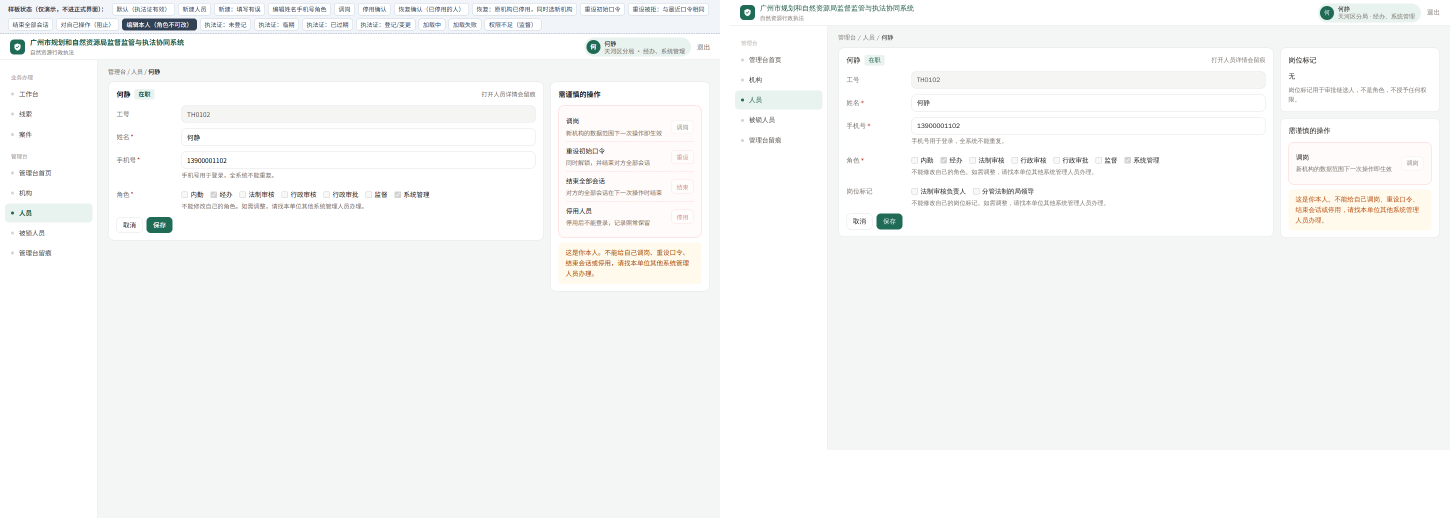
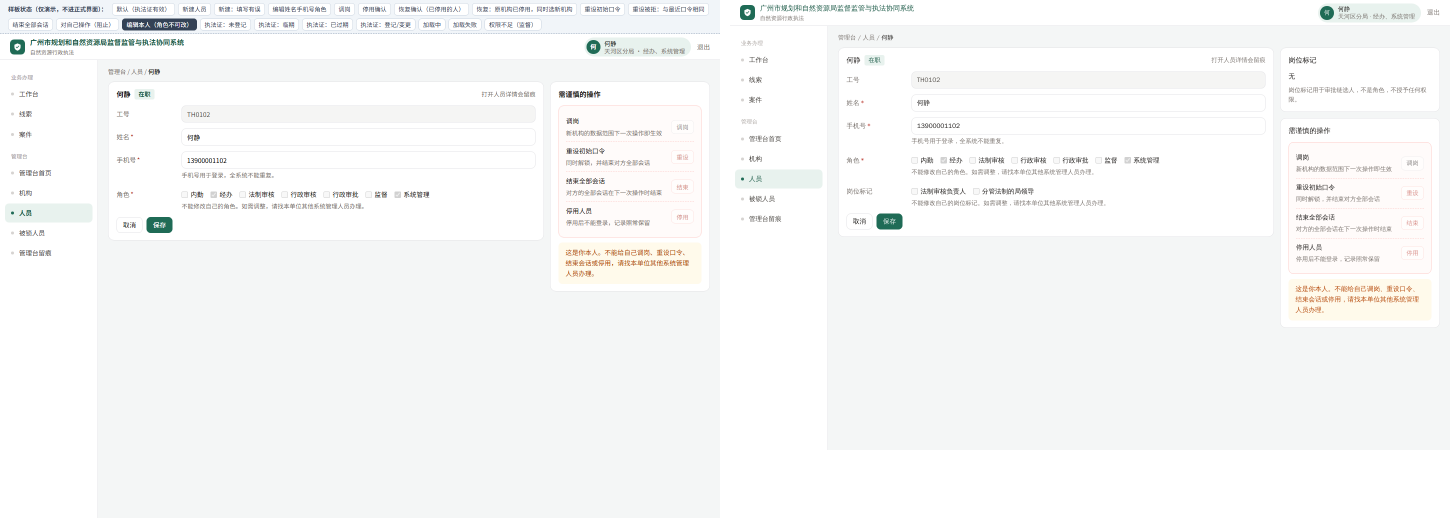
docs:2026-10-19-06-09||按终版代码重截 129/130/133 十三张卡片态截图与对照图，更正三票 README 差异登记与重截归属（#134，PR #156 复核）
重截以 #134 收口为准：危险操作区补入「重设初始口令」成四行（#132 终版），
会话操作码按名册与参照种子允许行并集（含 personnel.cert.update），
执法证一段补出登记/变更按钮，均与原型 v0.4 一致；文件名与逐目录计数不变，
结构测试 screenshot-full-set 仍绿。133 临期天数按重截当日登记为允许差异。

diff --git a/docs/screens/130/README.md b/docs/screens/130/README.md
@@ -2,13 +2,14 @@
 
 - 规格：Chrome headless（zenika/alpine-chrome 124），视口宽 1440，整页截图，2026-10-18（UTC+8）。
 - 本目录 `<状态>.png` 是实现截图；`compare/<状态>.png` 是对照图，左边为原型 v0.4（`frontend/prototype/admin-console/screens/`），右边为实现，缩到一半大小。
-- 做法：用模拟接口按状态返回会话、人员卡片与机构树，驱动构建后的前端产物截图；停用、结束全部会话、恢复三个弹窗由脚本点危险操作区对应按钮得到；恢复弹窗的机构清单由模拟接口按数据范围返回（五山已停用不列）。人员与机构沿用原型 P5、P6 的数据（他人卡陈晓宁 TH0315、已停用冯晨 TH0290、本人卡何静 TH0102）；操作码由名册和参照种子允许行推出（何静：经办 + 系统管理），含 `personnel.profile.deactivate`、`personnel.profile.restore`、`personnel.sessions.end`。
+- 做法：用模拟接口按状态返回会话、人员卡片与机构树，驱动构建后的前端产物截图；停用、结束全部会话、恢复三个弹窗由脚本点危险操作区对应按钮得到；恢复弹窗的机构清单由模拟接口按数据范围返回（五山已停用不列）。人员与机构沿用原型 P5、P6 的数据（他人卡陈晓宁 TH0315、已停用冯晨 TH0290、本人卡何静 TH0102）；操作码由名册和参照种子允许行推出（何静：经办 + 系统管理），含 `personnel.profile.deactivate`、`personnel.profile.restore`、`personnel.sessions.end`、`personnel.cert.update`、`personnel.password.reset`。
 - 本票出 6 张 v0.4 状态键：P6-view（危险操作区变化，重截 #128 旧图）、P6-deactivate、P6-restore、P6-restoreNewOrg、P6-endsessions、P6-self。重设初始口令各状态由 #132 出，执法证各状态由 #133 出。
+- 2026-10-19（UTC+8）按 PR #156 复核阻塞项以终版代码重截 6 张与对照图，重截以 #134 收口为准：危险操作区补入「重设初始口令」一行成四行（#132 终版）；会话操作码补齐 `personnel.cert.update`，执法证一段补出「变更执法证」/「登记执法证」按钮，与原型 v0.4 一致。其余画面不变。
 - 逐张差异说明：
-  - P6-view：原型顶部灰色「样板状态」条不属于正式界面；原型危险操作区四行含「重设初始口令」（#132 补入），实现当前三行（调岗、结束全部会话、停用人员），行序与提示句逐字一致；实现的角色一段之下多「岗位标记」一段（#105 A1 写明的例外，不在 v0.4）。
+  - P6-view：原型顶部灰色「样板状态」条不属于正式界面；危险操作区四行（调岗、重设初始口令、结束全部会话、停用人员）与原型逐字一致，行序与提示句一致（重设一行由 #132 补入，2026-10-19 重截后入图）；实现的角色一段之下多「岗位标记」一段（#105 A1 写明的例外，不在 v0.4）。
   - P6-deactivate：弹窗标题「停用「陈晓宁」？」、三条后果、取消与确认停用（危险色）逐字一致；原型弹窗为样板叠层，实现为模态弹窗（焦点管理照 #127 先例）。
   - P6-endsessions：弹窗标题「结束「陈晓宁」的全部会话？」、适用情形一句、两条后果、取消与确认结束逐字一致。结束成功后实现给一条 ok 横幅（文案取弹窗后果句「对方的全部会话和全部「记住我」，会在下一次操作时结束。」）；v0.4 无该成功态，截图不含，按单测验收。
   - P6-restore：kv「所在机构 龙洞自然资源所（在用）」、新的初始口令输入与提示句（含「不能与对方最近 5 次使用过的口令相同」）、取消与确认恢复逐字一致；已停用卡片危险操作区只有「恢复人员」一行，提示句「恢复后需用新的初始口令登录」一致。
   - P6-restoreNewOrg：kv「原任职机构 五山自然资源所（已停用）」、琥珀色说明条、新任职机构下拉（占位「请选择在用机构」，选项只含数据范围内在用机构）、提示句与「确认后，恢复和调到新任职机构一并完成。」逐字一致；实现未选机构时「确认恢复」置灰（原型样板按钮常亮），清单读取中同样置灰。
-  - P6-self：调岗、结束、停用三个按钮置灰，本人说明横幅逐字一致；「编辑姓名、手机号、角色」可点；在职本人卡片没有恢复一行（G23）。
+  - P6-self：调岗、重设、结束、停用四个按钮置灰，本人说明横幅逐字一致；「编辑姓名、手机号、角色」可点；在职本人卡片没有恢复一行（G23）。
   - 各弹窗失败态（根机构守卫一句、409 定稿句、口令策略未满足项）不在 v0.4 状态键内，按单测验收（可见文本不露操作码与原始结果码）。

diff --git a/docs/screens/129/README.md b/docs/screens/129/README.md
@@ -4,9 +4,10 @@
 - 本目录 `<状态>.png` 是实现截图；`compare/<状态>.png` 是对照图，左边为原型 v0.4（`frontend/prototype/admin-console/screens/`），右边为实现，缩到一半大小。
 - 做法：用模拟接口按状态返回会话、人员卡片与调岗目的地清单，驱动构建后的前端产物截图；编辑态与本人编辑态由脚本点「编辑姓名、手机号、角色」得到，调岗态点「调岗」得到。人员与机构沿用原型 P5、P6 的数据（他人卡陈晓宁 TH0315、本人卡何静 TH0102）；操作码由名册和参照种子允许行推出（何静：经办 + 系统管理），含 `personnel.profile.update`，不含未入名册的码。
 - 本票出 3 张 v0.4 状态键：P6-edit、P6-transfer、P6-selfEdit。停用、恢复、重设口令、结束会话、执法证各状态由 #130、#132、#133 出。
+- 2026-10-19（UTC+8）按 PR #156 复核阻塞项以终版代码重截 3 张与对照图，重截以 #134 收口为准：危险操作区补入「重设初始口令」一行成四行（#132 终版）；会话操作码改按名册与参照种子允许行的并集（何静：经办 + 系统管理，含 `personnel.cert.update`），左导补出「业务办理」一区、执法证一段补出「变更执法证」按钮，均与原型 v0.4 一致。其余画面不变。
 - `extra/P6-editRootGuard.png` 不是 v0.4 状态键：对根机构上最后一名系统管理人员摘角色，被根机构守卫（ADR 0014）拒绝后的编辑表单；顶部横幅是服务端给的可读原因，界面不露操作码与原始原因码，只作参考。
 - 逐张差异说明：
-  - P6-edit：原型顶部灰色「样板状态」条不属于正式界面；原型危险操作区含重设初始口令、结束全部会话、停用人员三行（#130、#132 补入），实现当前只有调岗一行；实现的角色一段之下多「岗位标记」复选一段（#105 A1 写明的例外，不在 v0.4）；工号只读、姓名与手机号必填、角色七选多与「角色变化在对方下一次操作时生效」提示一致。
-  - P6-transfer：弹窗标题、现机构只读、调入机构下拉、「调入机构不限于本区。」与两条后果提示一致；原型下拉已选中跨区目的地，实现初始为「请选择调入机构」占位（目的地清单由接口返回全树未停用机构）；原型危险操作区其余三行同 P6-edit 说明。
-  - P6-selfEdit：本人编辑时角色复选框置灰并给「不能修改自己的角色」说明，姓名与手机号可改，与原型一致；实现多一段同样置灰的「岗位标记」并给对应说明（同上例外）；右侧危险操作区调岗按钮置灰并给本人横幅，横幅文案与原型逐字一致。
+  - P6-edit：原型顶部灰色「样板状态」条不属于正式界面；危险操作区四行（调岗、重设初始口令、结束全部会话、停用人员）与原型逐字一致，行序与提示句一致（重设一行由 #132 补入，2026-10-19 重截后入图）；实现的角色一段之下多「岗位标记」复选一段（#105 A1 写明的例外，不在 v0.4）；工号只读、姓名与手机号必填、角色七选多与「角色变化在对方下一次操作时生效」提示一致。
+  - P6-transfer：弹窗标题、现机构只读、调入机构下拉、「调入机构不限于本区。」与两条后果提示一致；原型下拉已选中跨区目的地，实现初始为「请选择调入机构」占位（目的地清单由接口返回全树未停用机构）；背景卡危险操作区四行与执法证一段同 P6-edit 口径。
+  - P6-selfEdit：本人编辑时角色复选框置灰并给「不能修改自己的角色」说明，姓名与手机号可改，与原型一致；实现多一段同样置灰的「岗位标记」并给对应说明（同上例外）；右侧危险操作区调岗、重设、结束、停用四个按钮置灰并给本人横幅，横幅文案与原型逐字一致。
   - extra/P6-editRootGuard：横幅为守卫的可读原因全文，无操作码、无原因码。

diff --git a/docs/screens/133/README.md b/docs/screens/133/README.md
@@ -4,6 +4,7 @@
 - 本目录 `<状态>.png` 是实现截图；`compare/<状态>.png` 是对照图，左边为原型 v0.4（`frontend/prototype/admin-console/screens/`），右边为实现，缩到一半大小。
 - 做法：用模拟接口按状态返回会话、人员名单、人员卡片和机构树，驱动构建后的前端产物截图；P6-certEdit 由脚本点「变更执法证」打开表单后截。人员与机构沿用原型 P5、P6 的数据；操作码由名册和参照种子允许行推出（何静：经办 + 系统管理），不含未入名册的码。
 - 本票出 6 张：P3-admin（首屏「需要留意的执法证」统计卡）、P5-district（名单执法证列，含赵磊「失效」）、P6-certNone、P6-certExpiring、P6-certExpired、P6-certEdit。票面验收第 6 条要的三处界面状态即这 6 张。
+- 2026-10-19（UTC+8）按 PR #156 复核阻塞项以终版代码重截 P6-certEdit、P6-certNone、P6-certExpiring、P6-certExpired 四张卡片态与对照图，重截以 #134 收口为准：补上此前整块缺失的「需谨慎的操作」（调岗、重设初始口令、结束全部会话、停用人员四行，与原型 v0.4 逐字一致；旧图早于 #129、#130、#132 合入危险操作区的时点）。其余画面不变。
 - P6「执法证：失效」的卡片状态不在 v0.4（票面已写明不作验收项），不出图；名单列里的「失效」由 P5-district 覆盖。
 - 界面不露操作码与原始结果码：六张图的用户可见文本只有人话状态（有效、失效、30 天内到期、已过期、未登记）与说明句。
 
@@ -16,4 +17,4 @@
 | P3-admin | 四个入口卡与「后续开放」卡同 #128 已截形态 | 本票只验收执法证统计一段 |
 | P5-district | 「共 11 人」「其中 1 人已停用 · 第 1 页」按截图数据 | 同 #128 口径 |
 | P6-certEdit | 表单为「变更执法证」打开态，预填当前证号与有效期；有效期至输入框带占位符「年-月-日」，原型 edit 态为明文值、无占位符 | 原型 certEdit 即登记/变更表单，登记与变更共用同一表单；占位符只在空值态出现，截图为预填态不显示占位符，登记（空值）态的占位符与原型 P6 新建态同文案（PR #147 复核非阻塞③，#134 补记） |
-| P6-certNone / certExpiring / certExpired | 说明句为服务端推导后的人话限制说明 | 原型同位文案一致，实现按 #85、#70 的资格规则给出 |
+| P6-certNone / certExpiring / certExpired | 说明句为服务端推导后的人话限制说明；certExpiring「还有 N 天到期」的天数按重截当日推导（2026-10-19 为 20 天），原型样板为 22 天 | 实现按 #85、#70 的资格规则与截图当日推导；原型数字是样板定稿日的示意 |

diff --git a/docs/screens/134/README.md b/docs/screens/134/README.md
@@ -18,6 +18,7 @@
 
 - 口径：`docs/screens/<票>/` 顶层 `*.png` 的文件名并集，与原型 v0.4 状态键（`frontend/prototype/admin-console/screens/*.png`，除改动总览 `overview.png`）完全相等。自动判定只比文件名集合，由结构测试规则 `screenshot-full-set`（`tools/structural-test.sh`）承载，进 `dev lint` 与 CI。画面是否与 v0.4 一致由前端交互设计工程师逐图自查（各票 README 的逐张差异与 PR 允许差异表），Lei Hu 在 gate② 签收。
 - 结论：并集 78 个文件名与 78 个状态键完全相等。11 个目录顶层 png 共 82 张，其中 4 个键被后续票重截（P3-admin、P5-district、P6-view、P7-resetConfirm），以较新票的图为准；`compare/`、`extra/` 子目录是对照图与单测验收图（口令到期横幅 P1-expiry、根机构守卫 P6-editRootGuard），不进全集。
+- 画面时点：129 的 P6-edit、P6-transfer、P6-selfEdit，130 的六键，133 的 P6-certEdit、P6-certNone、P6-certExpiring、P6-certExpired 共 13 张卡片态图，2026-10-19 由本票按终版代码在原目录重截（PR #156 复核阻塞项：旧图早于危险操作区终版），文件名与逐目录计数不变，以重截后的图为准；差异登记见各票 README。
 
 | 目录 | 票 | 顶层 png 数 | 状态键范围 |
 | --- | --- | --- | --- |
